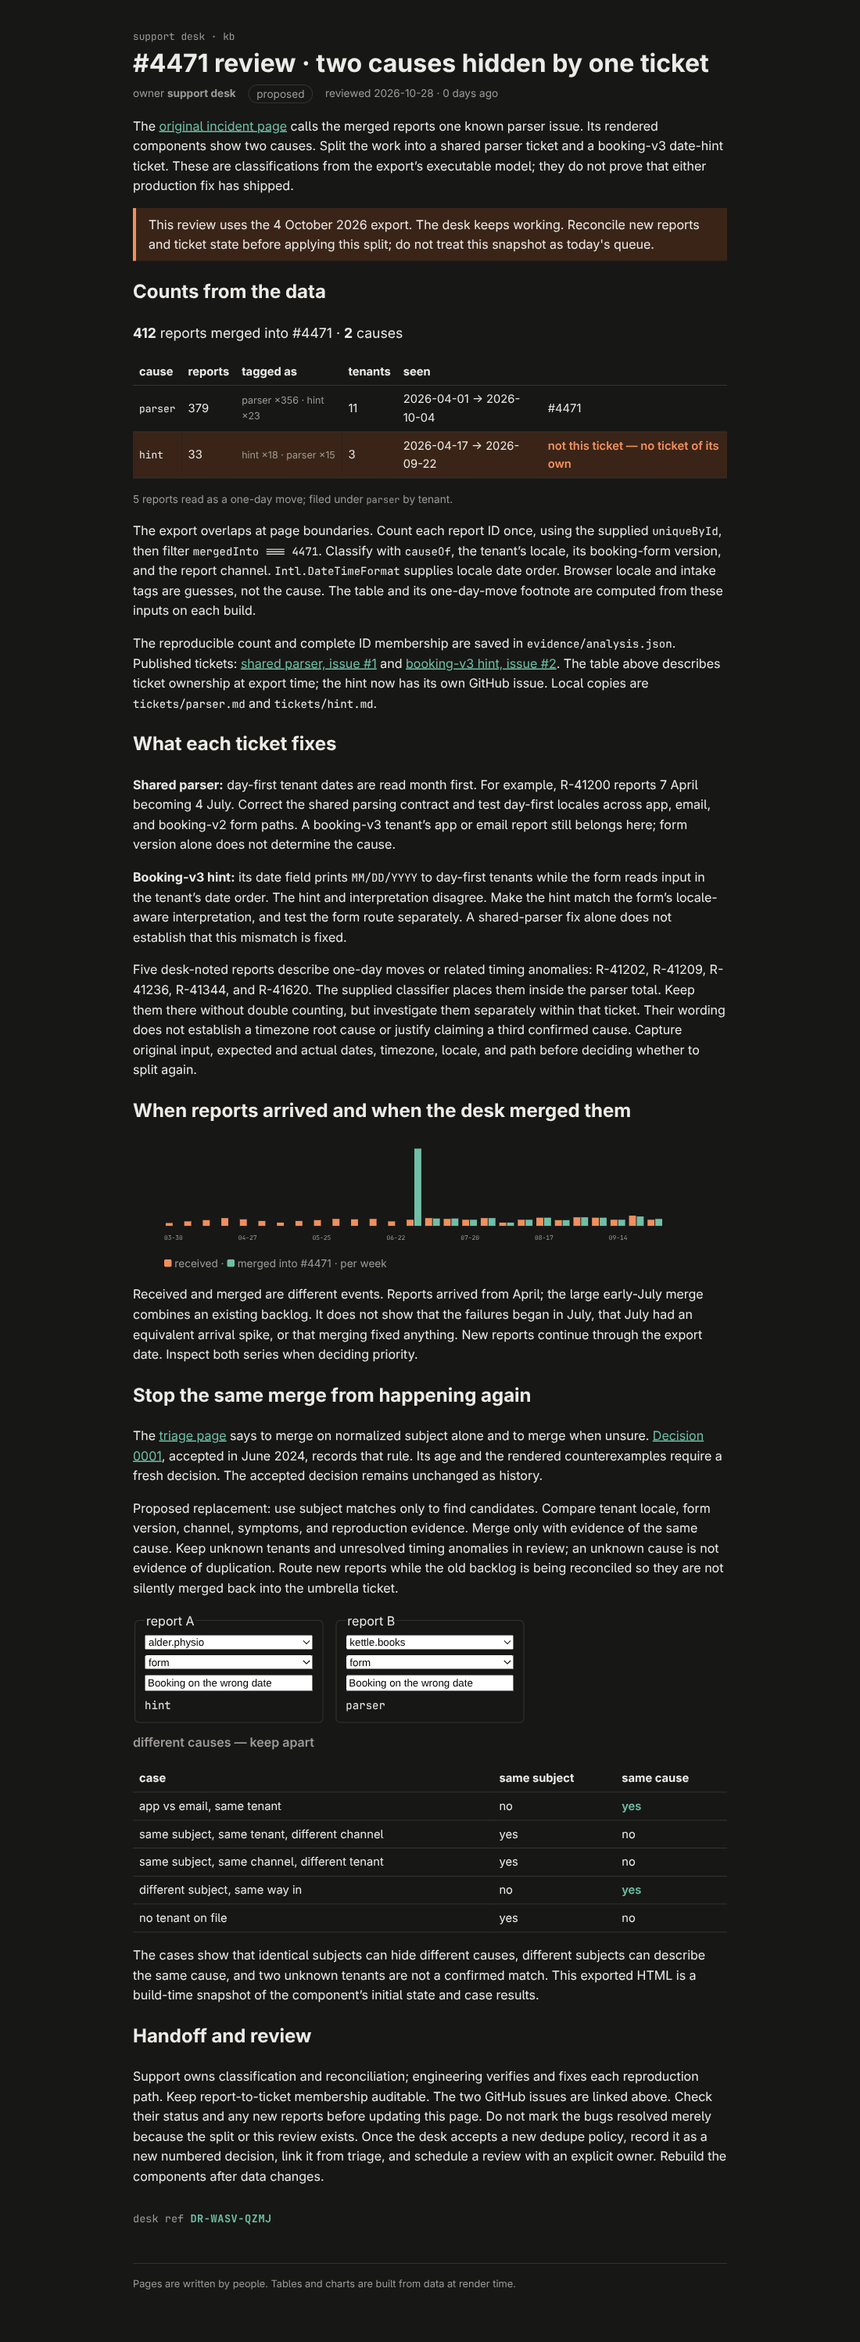
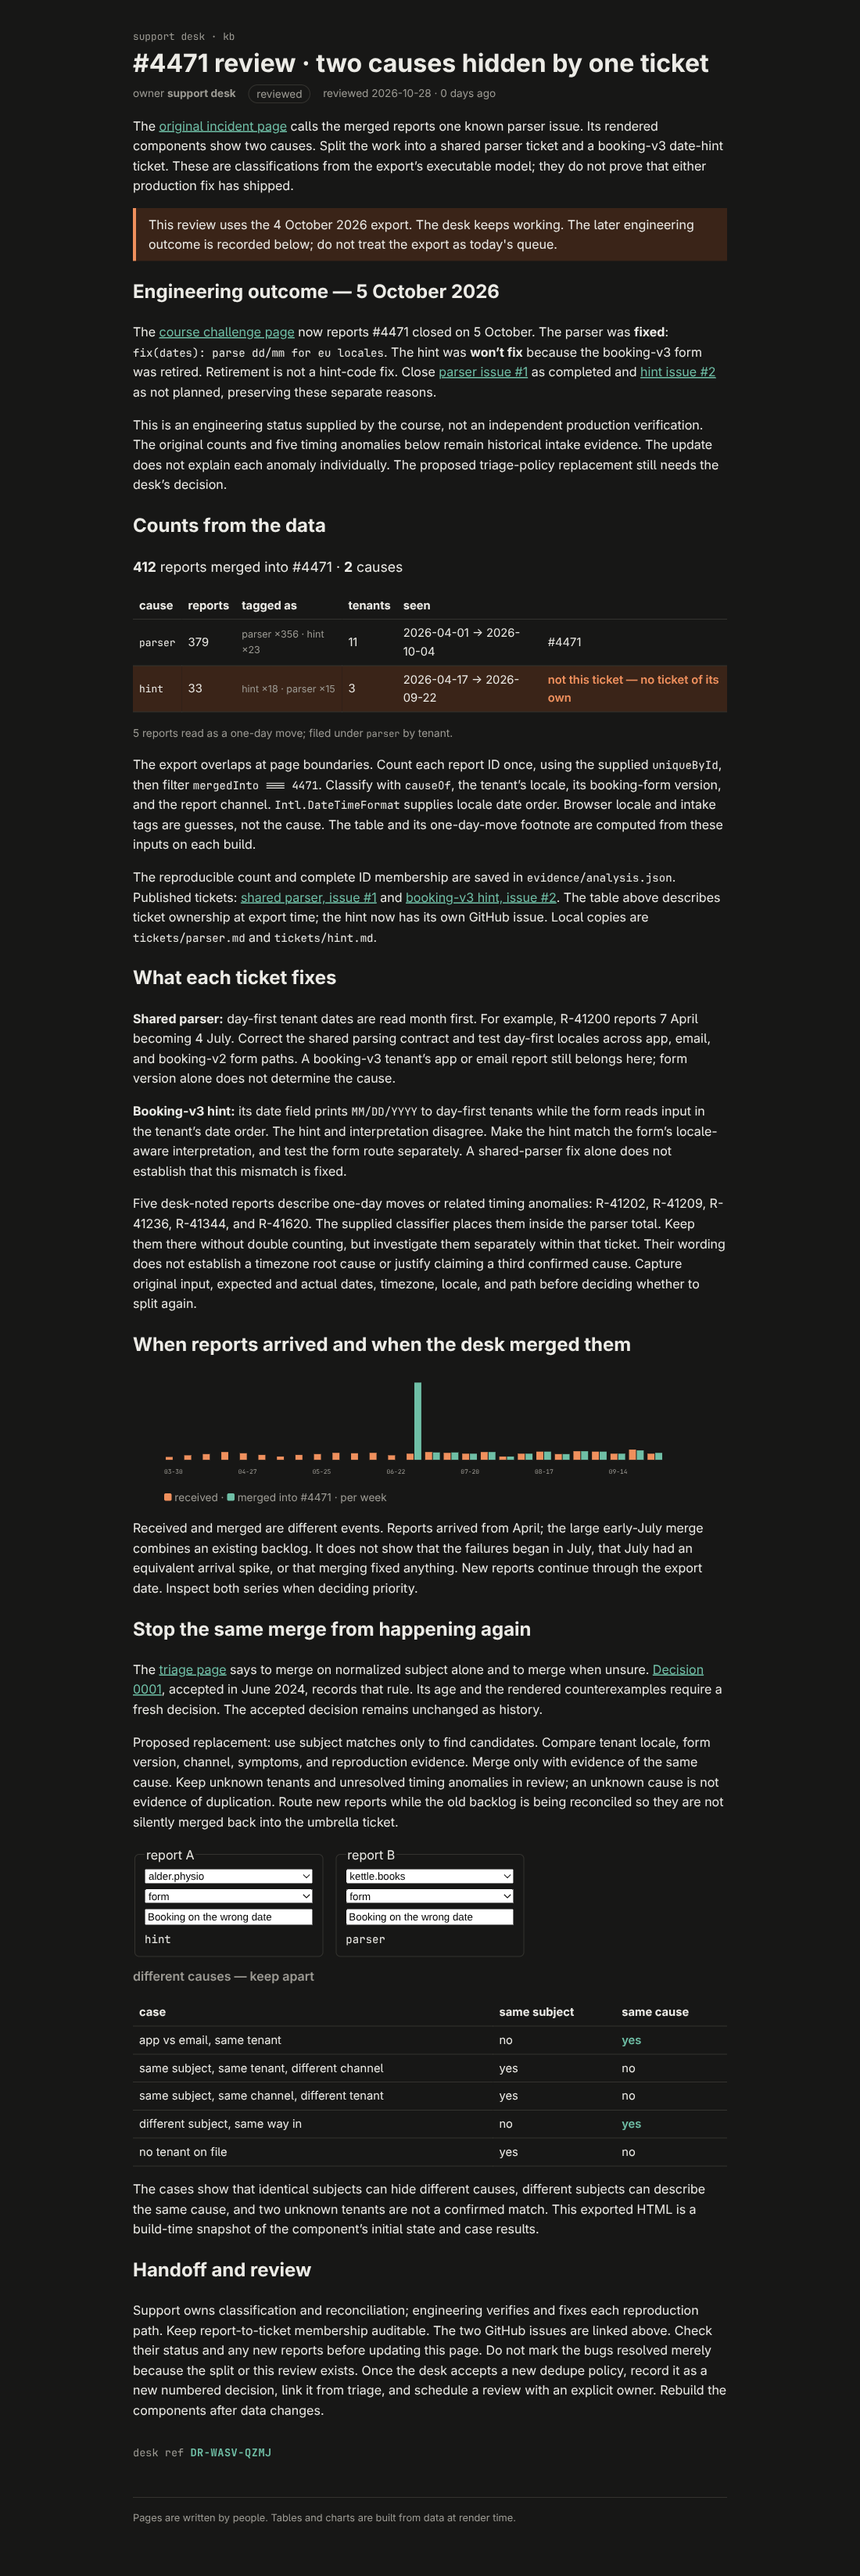
Record parser fix and hint retirement from desk update

Changed region(s): [[0.1545, 0.0, 0.8655, 0.994]]

diff --git a/rendered/kb/incidents/4471-review/index.html b/rendered/kb/incidents/4471-review/index.html
@@ -1,10 +1,15 @@
 <!doctype html><html lang="en"><head><meta charset="utf-8"><meta name="viewport" content="width=device-width, initial-scale=1"><!--e2jw2j--><!----><title>#4471 review · two causes hidden by one ticket · support kb</title><style id="svelte-e2jw2j">:root {--bg: #fbfaf7;--fg: #1d1d1b;--muted: #6b6a66;--line: #e3e0d8;--accent: #2f6f5e;--warn: #b4501f;--warn-bg: #fbeee6;--note-bg: #eef5f2;--mono: ui-monospace, 'Cascadia Code', Menlo, monospace;}
   @media (prefers-color-scheme: dark) {:root {--bg: #171716;--fg: #ecebe6;--muted: #9c9a93;--line: #34332f;--accent: #6fbfa6;--warn: #f0905d;--warn-bg: #3a2418;--note-bg: #1d2c27;}
-  }body {margin:0;background:var(--bg);color:var(--fg);font:16px/1.6 system-ui, sans-serif;}.kb table {border-collapse:collapse;width:100%;margin:1rem 0;font-size:0.92rem;}.kb th, .kb td {border-bottom:1px solid var(--line);padding:0.35rem 0.5rem;text-align:left;}.kb code {font-family:var(--mono);font-size:0.88em;}.kb a {color:var(--accent);}.kb.svelte-e2jw2j {max-width:760px;margin:0 auto;padding:2rem 16px 4rem;}.crumb.svelte-e2jw2j {font:0.8rem var(--mono);text-decoration:none;color:var(--muted);}h1.svelte-e2jw2j {margin:0.25rem 0 0.5rem;line-height:1.2;}.meta.svelte-e2jw2j {display:flex;flex-wrap:wrap;gap:0.5rem 1rem;color:var(--muted);font-size:0.85rem;margin:0;}.status.svelte-e2jw2j {border:1px solid var(--line);border-radius:99px;padding:0 0.6rem;}.stale.svelte-e2jw2j {color:var(--warn);font-weight:600;}.banner.svelte-e2jw2j {background:var(--warn-bg);color:var(--warn);padding:0.6rem 1rem;border-radius:6px;}footer.svelte-e2jw2j {margin-top:3rem;color:var(--muted);font-size:0.8rem;border-top:1px solid var(--line);padding-top:1rem;}</style><style id="svelte-17bri61">aside.svelte-17bri61 {border-left:4px solid var(--accent);padding:0.5rem 1rem;margin:1rem 0;background:var(--note-bg);}aside.warn.svelte-17bri61 {border-color:var(--warn);background:var(--warn-bg);}</style><style id="svelte-12oyimm">.sum.svelte-12oyimm {font-size:1.1rem;}.tags.svelte-12oyimm {color:var(--muted);font-size:0.85em;}.note.svelte-12oyimm {color:var(--muted);font-size:0.85em;}.wrong.svelte-12oyimm td:where(.svelte-12oyimm) {background:var(--warn-bg);}.wrong.svelte-12oyimm td:where(.svelte-12oyimm):last-child {color:var(--warn);font-weight:600;}</style><style id="svelte-18a6qal">svg.svelte-18a6qal {width:100%;max-width:640px;}.in.svelte-18a6qal {fill:var(--warn);}.merged.svelte-18a6qal {fill:var(--accent);}text.svelte-18a6qal {font:8px var(--mono);fill:var(--muted);text-anchor:middle;}figcaption.svelte-18a6qal {color:var(--muted);font-size:0.85rem;}.key.svelte-18a6qal {display:inline-block;width:0.7em;height:0.7em;border-radius:2px;}.key.in.svelte-18a6qal {background:var(--warn);}.key.merged.svelte-18a6qal {background:var(--accent);}</style><style id="svelte-gq0h2h">.try.svelte-gq0h2h {display:grid;grid-template-columns:repeat(auto-fit, minmax(220px, 1fr));gap:0.75rem;margin:1rem 0;}fieldset.svelte-gq0h2h {display:grid;gap:0.4rem;border:1px solid var(--line);border-radius:6px;}.verdict.svelte-gq0h2h {grid-column:1 / -1;margin:0;font-weight:600;color:var(--muted);}.dup.svelte-gq0h2h {color:var(--accent);font-weight:600;}</style><style id="svelte-1280m42">.stamp.svelte-1280m42 {margin:2rem 0 0;font:0.85rem var(--mono);color:var(--muted);}.stamp.svelte-1280m42 b:where(.svelte-1280m42) {color:var(--accent);letter-spacing:0.04em;}.missing.svelte-1280m42 {color:var(--warn);}</style></head><body><!--[--><div class="kb svelte-e2jw2j"><header><a class="crumb svelte-e2jw2j" href="/kb">support desk · kb</a> <h1 class="svelte-e2jw2j">#4471 review · two causes hidden by one ticket</h1> <p class="meta svelte-e2jw2j"><span>owner <b>support desk</b></span> <span class="status proposed svelte-e2jw2j">proposed</span> <span class="svelte-e2jw2j">reviewed 2026-10-28 · 0 days ago</span></p></header> <!--[-1--><!--]--> <main><p>The <a href="/kb/incidents/4471">original incident page</a> calls the merged reports one known
+  }body {margin:0;background:var(--bg);color:var(--fg);font:16px/1.6 system-ui, sans-serif;}.kb table {border-collapse:collapse;width:100%;margin:1rem 0;font-size:0.92rem;}.kb th, .kb td {border-bottom:1px solid var(--line);padding:0.35rem 0.5rem;text-align:left;}.kb code {font-family:var(--mono);font-size:0.88em;}.kb a {color:var(--accent);}.kb.svelte-e2jw2j {max-width:760px;margin:0 auto;padding:2rem 16px 4rem;}.crumb.svelte-e2jw2j {font:0.8rem var(--mono);text-decoration:none;color:var(--muted);}h1.svelte-e2jw2j {margin:0.25rem 0 0.5rem;line-height:1.2;}.meta.svelte-e2jw2j {display:flex;flex-wrap:wrap;gap:0.5rem 1rem;color:var(--muted);font-size:0.85rem;margin:0;}.status.svelte-e2jw2j {border:1px solid var(--line);border-radius:99px;padding:0 0.6rem;}.stale.svelte-e2jw2j {color:var(--warn);font-weight:600;}.banner.svelte-e2jw2j {background:var(--warn-bg);color:var(--warn);padding:0.6rem 1rem;border-radius:6px;}footer.svelte-e2jw2j {margin-top:3rem;color:var(--muted);font-size:0.8rem;border-top:1px solid var(--line);padding-top:1rem;}</style><style id="svelte-17bri61">aside.svelte-17bri61 {border-left:4px solid var(--accent);padding:0.5rem 1rem;margin:1rem 0;background:var(--note-bg);}aside.warn.svelte-17bri61 {border-color:var(--warn);background:var(--warn-bg);}</style><style id="svelte-12oyimm">.sum.svelte-12oyimm {font-size:1.1rem;}.tags.svelte-12oyimm {color:var(--muted);font-size:0.85em;}.note.svelte-12oyimm {color:var(--muted);font-size:0.85em;}.wrong.svelte-12oyimm td:where(.svelte-12oyimm) {background:var(--warn-bg);}.wrong.svelte-12oyimm td:where(.svelte-12oyimm):last-child {color:var(--warn);font-weight:600;}</style><style id="svelte-18a6qal">svg.svelte-18a6qal {width:100%;max-width:640px;}.in.svelte-18a6qal {fill:var(--warn);}.merged.svelte-18a6qal {fill:var(--accent);}text.svelte-18a6qal {font:8px var(--mono);fill:var(--muted);text-anchor:middle;}figcaption.svelte-18a6qal {color:var(--muted);font-size:0.85rem;}.key.svelte-18a6qal {display:inline-block;width:0.7em;height:0.7em;border-radius:2px;}.key.in.svelte-18a6qal {background:var(--warn);}.key.merged.svelte-18a6qal {background:var(--accent);}</style><style id="svelte-gq0h2h">.try.svelte-gq0h2h {display:grid;grid-template-columns:repeat(auto-fit, minmax(220px, 1fr));gap:0.75rem;margin:1rem 0;}fieldset.svelte-gq0h2h {display:grid;gap:0.4rem;border:1px solid var(--line);border-radius:6px;}.verdict.svelte-gq0h2h {grid-column:1 / -1;margin:0;font-weight:600;color:var(--muted);}.dup.svelte-gq0h2h {color:var(--accent);font-weight:600;}</style><style id="svelte-1280m42">.stamp.svelte-1280m42 {margin:2rem 0 0;font:0.85rem var(--mono);color:var(--muted);}.stamp.svelte-1280m42 b:where(.svelte-1280m42) {color:var(--accent);letter-spacing:0.04em;}.missing.svelte-1280m42 {color:var(--warn);}</style></head><body><!--[--><div class="kb svelte-e2jw2j"><header><a class="crumb svelte-e2jw2j" href="/kb">support desk · kb</a> <h1 class="svelte-e2jw2j">#4471 review · two causes hidden by one ticket</h1> <p class="meta svelte-e2jw2j"><span>owner <b>support desk</b></span> <span class="status reviewed svelte-e2jw2j">reviewed</span> <span class="svelte-e2jw2j">reviewed 2026-10-28 · 0 days ago</span></p></header> <!--[-1--><!--]--> <main><p>The <a href="/kb/incidents/4471">original incident page</a> calls the merged reports one known
 parser issue. Its rendered components show two causes. Split the work into a shared
 parser ticket and a booking-v3 date-hint ticket. These are classifications from the
-export’s executable model; they do not prove that either production fix has shipped.</p> <aside class="warn svelte-17bri61"><!---->This review uses the 4 October 2026 export. The desk keeps working. Reconcile new reports
-and ticket state before applying this split; do not treat this snapshot as today's queue.<!----></aside><!----> <h2>Counts from the data</h2> <p class="sum svelte-12oyimm"><strong>412</strong> reports merged into #4471 · <strong>2</strong> causes</p> <table><thead><tr><th>cause</th><th>reports</th><th>tagged as</th><th>tenants</th><th>seen</th><th></th></tr></thead><tbody><!--[--><tr class="svelte-12oyimm"><td class="svelte-12oyimm"><code>parser</code></td><td class="svelte-12oyimm">379</td><td class="tags svelte-12oyimm">parser ×356 · hint ×23</td><td class="svelte-12oyimm">11</td><td class="svelte-12oyimm">2026-04-01 → 2026-10-04</td><td class="svelte-12oyimm">#4471</td></tr><tr class="svelte-12oyimm wrong"><td class="svelte-12oyimm"><code>hint</code></td><td class="svelte-12oyimm">33</td><td class="tags svelte-12oyimm">hint ×18 · parser ×15</td><td class="svelte-12oyimm">3</td><td class="svelte-12oyimm">2026-04-17 → 2026-09-22</td><td class="svelte-12oyimm">not this ticket — no ticket of its own</td></tr><!--]--></tbody></table> <!--[--><!--[0--><p class="note svelte-12oyimm">5 reports read as a one-day move; filed under <code>parser</code> by tenant.</p><!--]--><!--[-1--><!--]--><!--]--><!----> <p>The export overlaps at page boundaries. Count each report ID once, using the supplied <code>uniqueById</code>, then filter <code>mergedInto === 4471</code>. Classify with <code>causeOf</code>, the tenant’s
+export’s executable model; they do not prove that either production fix has shipped.</p> <aside class="warn svelte-17bri61"><!---->This review uses the 4 October 2026 export. The desk keeps working. The later engineering outcome is recorded below; do not treat the export as today's queue.<!----></aside><!----> <h2>Engineering outcome — 5 October 2026</h2> <p>The <a href="https://hq.mega.dev/challenges/what-it-shows" rel="nofollow">course challenge page</a> now reports
+#4471 closed on 5 October. The parser was <strong>fixed</strong>: <code>fix(dates): parse dd/mm for eu locales</code>.
+The hint was <strong>won’t fix</strong> because the booking-v3 form was retired. Retirement is not a
+hint-code fix. Close <a href="https://github.com/marcinczenko/mega-s01e03/issues/1" rel="nofollow">parser issue #1</a> as completed and <a href="https://github.com/marcinczenko/mega-s01e03/issues/2" rel="nofollow">hint issue #2</a> as not planned, preserving these separate reasons.</p> <p>This is an engineering status supplied by the course, not an independent production
+verification. The original counts and five timing anomalies below remain historical
+intake evidence. The update does not explain each anomaly individually. The proposed
+triage-policy replacement still needs the desk’s decision.</p> <h2>Counts from the data</h2> <p class="sum svelte-12oyimm"><strong>412</strong> reports merged into #4471 · <strong>2</strong> causes</p> <table><thead><tr><th>cause</th><th>reports</th><th>tagged as</th><th>tenants</th><th>seen</th><th></th></tr></thead><tbody><!--[--><tr class="svelte-12oyimm"><td class="svelte-12oyimm"><code>parser</code></td><td class="svelte-12oyimm">379</td><td class="tags svelte-12oyimm">parser ×356 · hint ×23</td><td class="svelte-12oyimm">11</td><td class="svelte-12oyimm">2026-04-01 → 2026-10-04</td><td class="svelte-12oyimm">#4471</td></tr><tr class="svelte-12oyimm wrong"><td class="svelte-12oyimm"><code>hint</code></td><td class="svelte-12oyimm">33</td><td class="tags svelte-12oyimm">hint ×18 · parser ×15</td><td class="svelte-12oyimm">3</td><td class="svelte-12oyimm">2026-04-17 → 2026-09-22</td><td class="svelte-12oyimm">not this ticket — no ticket of its own</td></tr><!--]--></tbody></table> <!--[--><!--[0--><p class="note svelte-12oyimm">5 reports read as a one-day move; filed under <code>parser</code> by tenant.</p><!--]--><!--[-1--><!--]--><!--]--><!----> <p>The export overlaps at page boundaries. Count each report ID once, using the supplied <code>uniqueById</code>, then filter <code>mergedInto === 4471</code>. Classify with <code>causeOf</code>, the tenant’s
 locale, its booking-form version, and the report channel. <code>Intl.DateTimeFormat</code> supplies
 locale date order. Browser locale and intake tags are guesses, not the cause.
 The table and its one-day-move footnote are computed from these inputs on each build.</p> <p>The reproducible count and complete ID membership are saved in <code>evidence/analysis.json</code>.

diff --git a/rendered/kb/index.html b/rendered/kb/index.html
@@ -1,4 +1,4 @@
 <!doctype html><html lang="en"><head><meta charset="utf-8"><meta name="viewport" content="width=device-width, initial-scale=1"><!--e2jw2j--><!----><title>Support knowledge base · support kb</title><style id="svelte-e2jw2j">:root {--bg: #fbfaf7;--fg: #1d1d1b;--muted: #6b6a66;--line: #e3e0d8;--accent: #2f6f5e;--warn: #b4501f;--warn-bg: #fbeee6;--note-bg: #eef5f2;--mono: ui-monospace, 'Cascadia Code', Menlo, monospace;}
   @media (prefers-color-scheme: dark) {:root {--bg: #171716;--fg: #ecebe6;--muted: #9c9a93;--line: #34332f;--accent: #6fbfa6;--warn: #f0905d;--warn-bg: #3a2418;--note-bg: #1d2c27;}
-  }body {margin:0;background:var(--bg);color:var(--fg);font:16px/1.6 system-ui, sans-serif;}.kb table {border-collapse:collapse;width:100%;margin:1rem 0;font-size:0.92rem;}.kb th, .kb td {border-bottom:1px solid var(--line);padding:0.35rem 0.5rem;text-align:left;}.kb code {font-family:var(--mono);font-size:0.88em;}.kb a {color:var(--accent);}.kb.svelte-e2jw2j {max-width:760px;margin:0 auto;padding:2rem 16px 4rem;}.crumb.svelte-e2jw2j {font:0.8rem var(--mono);text-decoration:none;color:var(--muted);}h1.svelte-e2jw2j {margin:0.25rem 0 0.5rem;line-height:1.2;}.meta.svelte-e2jw2j {display:flex;flex-wrap:wrap;gap:0.5rem 1rem;color:var(--muted);font-size:0.85rem;margin:0;}.status.svelte-e2jw2j {border:1px solid var(--line);border-radius:99px;padding:0 0.6rem;}.stale.svelte-e2jw2j {color:var(--warn);font-weight:600;}.banner.svelte-e2jw2j {background:var(--warn-bg);color:var(--warn);padding:0.6rem 1rem;border-radius:6px;}footer.svelte-e2jw2j {margin-top:3rem;color:var(--muted);font-size:0.8rem;border-top:1px solid var(--line);padding-top:1rem;}</style><style id="svelte-tbc1ha">.stale.svelte-tbc1ha {color:var(--warn);font-weight:600;}</style></head><body><!--[--><div class="kb svelte-e2jw2j"><header><a class="crumb svelte-e2jw2j" href="/kb">support desk · kb</a> <h1 class="svelte-e2jw2j">Support knowledge base</h1> <p class="meta svelte-e2jw2j"><span>owner <b>support desk</b></span> <span class="status living svelte-e2jw2j">living</span> <span class="svelte-e2jw2j">reviewed 2026-09-28 · 30 days ago</span></p></header> <!--[-1--><!--]--> <main><p>What the support desk knows, kept next to the code that knows it. One desk, every product: <code>sched-prod</code> (calendar invites for about 300k people) and the rest. When something breaks, the reports land here first.</p> <p>Start with <a href="/kb/triage/dedupe">triage</a> if you are new on the desk.</p> <h2>Pages</h2> <table><thead><tr><th>page</th><th>owner</th><th>status</th><th>reviewed</th></tr></thead><tbody><!--[--><tr><td><a href="/kb/decisions/0001-dedupe-by-subject">0001 · Duplicates share a subject line</a></td><td>rune</td><td>accepted</td><td class="svelte-tbc1ha stale">2024-06-11</td></tr><tr><td><a href="/kb/incidents/4471">#4471 · dates parse mm/dd in eu locales</a></td><td>support desk</td><td>known</td><td class="svelte-tbc1ha">2026-09-30</td></tr><tr><td><a href="/kb/incidents/4471-review">#4471 review · two causes hidden by one ticket</a></td><td>support desk</td><td>proposed</td><td class="svelte-tbc1ha">2026-10-28</td></tr><tr><td><a href="/kb/triage/dedupe">Triage: duplicate reports</a></td><td>support desk</td><td>accepted</td><td class="svelte-tbc1ha stale">2024-06-11</td></tr><!--]--></tbody></table><!----> <h2>Writing a page</h2> <p>Keep the words here and the logic in <code>src/lib</code>. A number that can be computed should be
+  }body {margin:0;background:var(--bg);color:var(--fg);font:16px/1.6 system-ui, sans-serif;}.kb table {border-collapse:collapse;width:100%;margin:1rem 0;font-size:0.92rem;}.kb th, .kb td {border-bottom:1px solid var(--line);padding:0.35rem 0.5rem;text-align:left;}.kb code {font-family:var(--mono);font-size:0.88em;}.kb a {color:var(--accent);}.kb.svelte-e2jw2j {max-width:760px;margin:0 auto;padding:2rem 16px 4rem;}.crumb.svelte-e2jw2j {font:0.8rem var(--mono);text-decoration:none;color:var(--muted);}h1.svelte-e2jw2j {margin:0.25rem 0 0.5rem;line-height:1.2;}.meta.svelte-e2jw2j {display:flex;flex-wrap:wrap;gap:0.5rem 1rem;color:var(--muted);font-size:0.85rem;margin:0;}.status.svelte-e2jw2j {border:1px solid var(--line);border-radius:99px;padding:0 0.6rem;}.stale.svelte-e2jw2j {color:var(--warn);font-weight:600;}.banner.svelte-e2jw2j {background:var(--warn-bg);color:var(--warn);padding:0.6rem 1rem;border-radius:6px;}footer.svelte-e2jw2j {margin-top:3rem;color:var(--muted);font-size:0.8rem;border-top:1px solid var(--line);padding-top:1rem;}</style><style id="svelte-tbc1ha">.stale.svelte-tbc1ha {color:var(--warn);font-weight:600;}</style></head><body><!--[--><div class="kb svelte-e2jw2j"><header><a class="crumb svelte-e2jw2j" href="/kb">support desk · kb</a> <h1 class="svelte-e2jw2j">Support knowledge base</h1> <p class="meta svelte-e2jw2j"><span>owner <b>support desk</b></span> <span class="status living svelte-e2jw2j">living</span> <span class="svelte-e2jw2j">reviewed 2026-09-28 · 30 days ago</span></p></header> <!--[-1--><!--]--> <main><p>What the support desk knows, kept next to the code that knows it. One desk, every product: <code>sched-prod</code> (calendar invites for about 300k people) and the rest. When something breaks, the reports land here first.</p> <p>Start with <a href="/kb/triage/dedupe">triage</a> if you are new on the desk.</p> <h2>Pages</h2> <table><thead><tr><th>page</th><th>owner</th><th>status</th><th>reviewed</th></tr></thead><tbody><!--[--><tr><td><a href="/kb/decisions/0001-dedupe-by-subject">0001 · Duplicates share a subject line</a></td><td>rune</td><td>accepted</td><td class="svelte-tbc1ha stale">2024-06-11</td></tr><tr><td><a href="/kb/incidents/4471">#4471 · dates parse mm/dd in eu locales</a></td><td>support desk</td><td>known</td><td class="svelte-tbc1ha">2026-09-30</td></tr><tr><td><a href="/kb/incidents/4471-review">#4471 review · two causes hidden by one ticket</a></td><td>support desk</td><td>reviewed</td><td class="svelte-tbc1ha">2026-10-28</td></tr><tr><td><a href="/kb/triage/dedupe">Triage: duplicate reports</a></td><td>support desk</td><td>accepted</td><td class="svelte-tbc1ha stale">2024-06-11</td></tr><!--]--></tbody></table><!----> <h2>Writing a page</h2> <p>Keep the words here and the logic in <code>src/lib</code>. A number that can be computed should be
 computed by a component, not typed into a paragraph.</p><!----></main> <footer class="svelte-e2jw2j">Pages are written by people. Tables and charts are built from data at render time.</footer></div><!--]--></body></html>

diff --git a/tickets/parser.md b/tickets/parser.md
@@ -31,3 +31,7 @@ the booking-v3 hint issue automatically.
 Sources: `src/lib/kb/causes.ts`, `src/lib/kb/locales.ts`, tenant JSON, report JSON,
 `desk-notes.json`, and the rendered CauseTable and QueueTimeline. See the signed review
 at `src/routes/kb/incidents/4471-review/+page.svx` and its rendered HTML.
+
+## Engineering outcome
+
+Source: https://hq.mega.dev/challenges/what-it-shows, engineering update observed after step one was accepted. The desk reports #4471 closed on 5 October 2026. Parser fixed: `fix(dates): parse dd/mm for eu locales`. Closing as completed based on the course engineering update. This is not an independent production verification; the five timing anomalies remain documented as historical evidence.

diff --git a/tickets/hint.md b/tickets/hint.md
@@ -28,3 +28,7 @@ export. Track and verify this fix separately from the shared parser.
 Sources: `src/lib/kb/causes.ts` (`DATE_HINT` and `causeOf`), `src/lib/kb/locales.ts`,
 tenant and report JSON, and the rendered CauseTable. See the signed review at
 `src/routes/kb/incidents/4471-review/+page.svx` and its rendered HTML.
+
+## Engineering outcome
+
+Source: https://hq.mega.dev/challenges/what-it-shows, engineering update observed after step one was accepted. The desk reports #4471 closed on 5 October 2026. Hint won’t fix: booking-v3 form retired. Closing as not planned. The form was retired; this does not mean the hint code was fixed.
